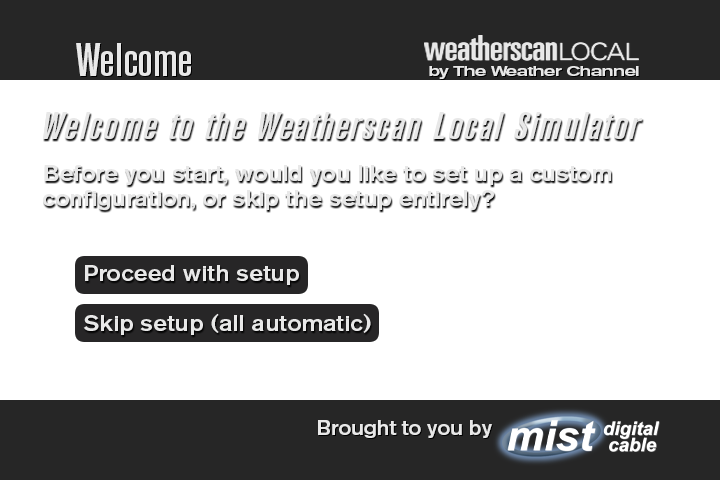
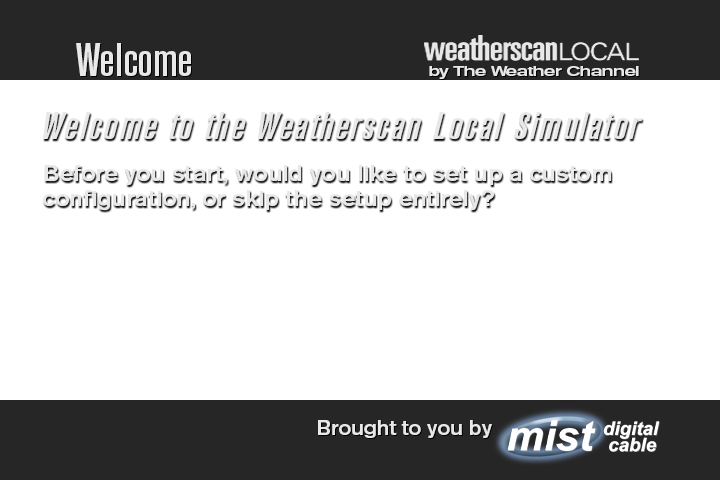
Chat, we are now using html/css buttons on the setup menu, gang. And, like a sigma (dragon), I have also added a hover effect. Huzz, here I come!

Changed region(s): [[0.0917, 0.5312, 0.55, 0.7188]]

diff --git a/webroot/index.html b/webroot/index.html
@@ -75,9 +75,9 @@
       <img id="setup-swoosh" src="images/setup/setup-swoosh.png"/>
       <div id="version-number"></div>
       <div id="setup-welcome" style="display: none">
-        <button class="proceed-button button" onclick="welcomefuncs('proceed')"></button>
-        <button class="skipall-button button" onclick="welcomefuncs('skipall')"></button>
-        <button class="uploadjson-button button" onclick="welcomefuncs('json')">JSON</button>
+        <button class="proceed-button button" onclick="welcomefuncs('proceed')">Proceed with setup</button>
+        <button class="skipall-button button" onclick="welcomefuncs('skipall')">Skip setup (automatic config)</button>
+        <button class="uploadjson-button button" onclick="welcomefuncs('json')">Setup using a .JSON file</button>
       </div>
       <div id="setup-jsonconfig" style="display: none;">
         <div class="jsontexts">Don't have a valid JSON configuration file? Download a template here and edit the contents!</div>

diff --git a/webroot/weatherscan.css b/webroot/weatherscan.css
@@ -265,7 +265,7 @@ button {
   width: 510px;
   top: 54%;
   left: 11%;
-  opacity: 0;
+  transition: background-color 0.2s ease-in-out;
 }
 #setup-welcome .skipall-button {
   position: absolute;
@@ -273,7 +273,7 @@ button {
   width: 670px;
   top: 64%;
   left: 11%;
-  opacity: 0;
+  transition: background-color 0.2s ease-in-out;
 }
 #setup-welcome .uploadjson-button {
   position: absolute;
@@ -281,7 +281,19 @@ button {
   width: 670px;
   top: 74%;
   left: 11%;
+  transition: background-color 0.2s ease-in-out;
 }
+/* Setup menu button hover effects */
+#setup-welcome .proceed-button:hover {
+  background-color: #ddc879;
+}
+#setup-welcome .skipall-button:hover {
+  background-color: #ddc879;
+}
+#setup-welcome .uploadjson-button:hover {
+  background-color: #ddc879;
+}
+
 .setup-list {
   position: absolute;
   width: 1620px;
